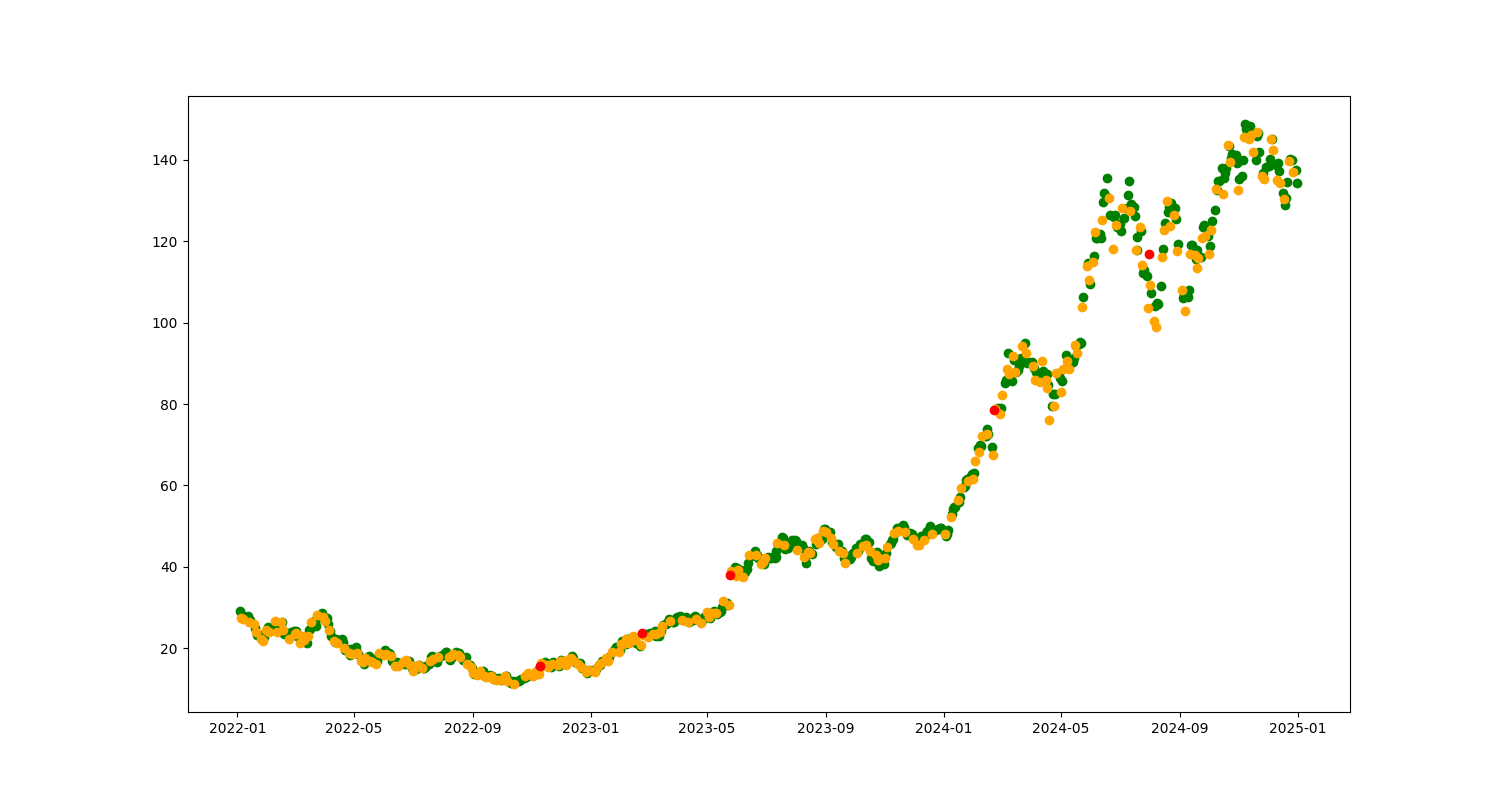
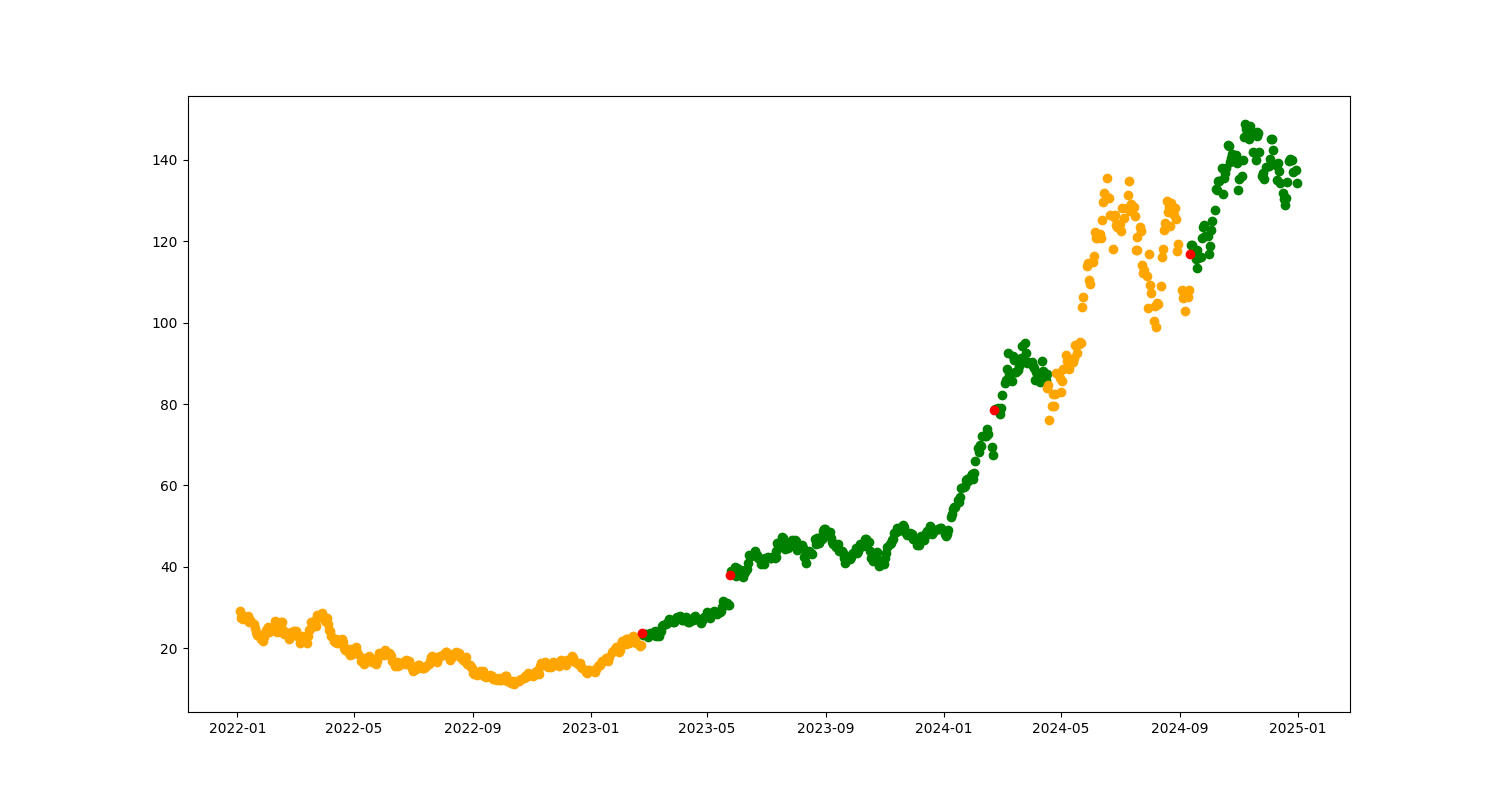
run EM multiple times to avoid local minima

diff --git a/main.py b/main.py
@@ -14,11 +14,20 @@ def fit_hmm_model(prices, n_states=3):
     log_returns = np.log(prices / prices.shift(1)).dropna()
     X = log_returns.values.reshape(-1, 1)
     
-    model = hmm.GaussianHMM(n_components=n_states, covariance_type="diag", n_iter=10000)
+    best_score = -np.inf
+    best_model = None
+
+    # Try multiple random initializations to avoid local minima
+    for i in range(10):
+        temp_model = hmm.GaussianHMM(n_components=n_states, covariance_type="diag", n_iter=1000, random_state=i)
+        temp_model.fit(X)
     
-    # Run EM algorithm to fit data
-    print("Fitting HMM to data...")
-    model.fit(X)
+        score = temp_model.score(X)
+        if score > best_score:
+            best_score = score
+            best_model = temp_model
+
+    model = best_model
     
     # Viterbi algorithm
     hidden_states = model.predict(X)
